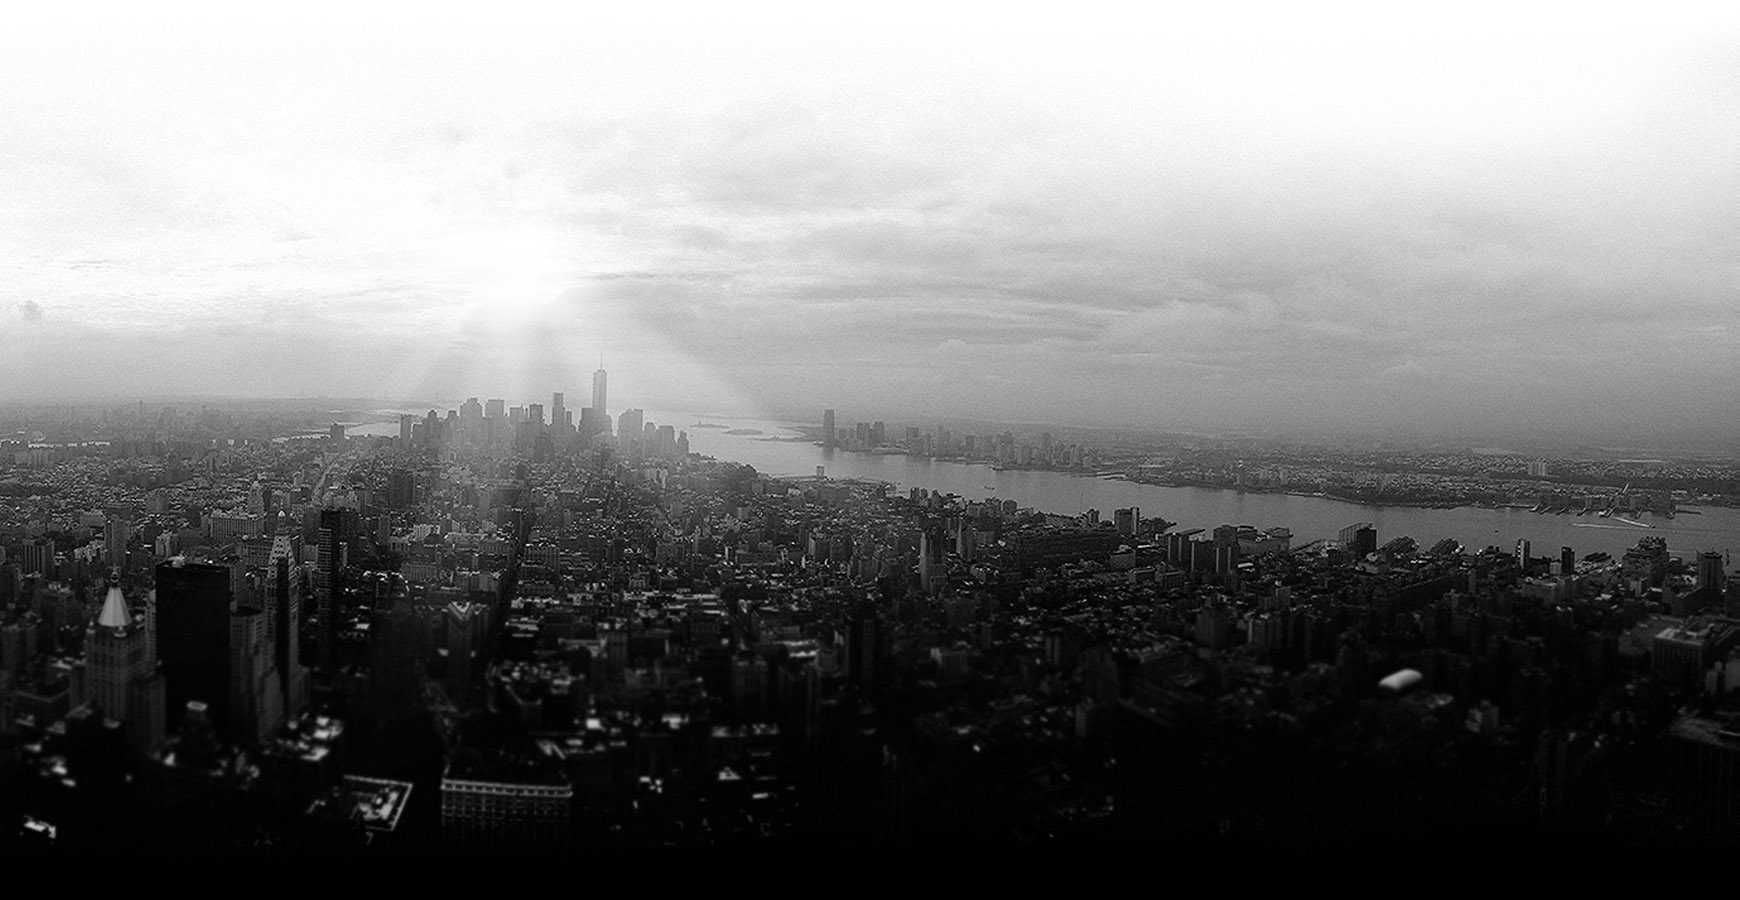
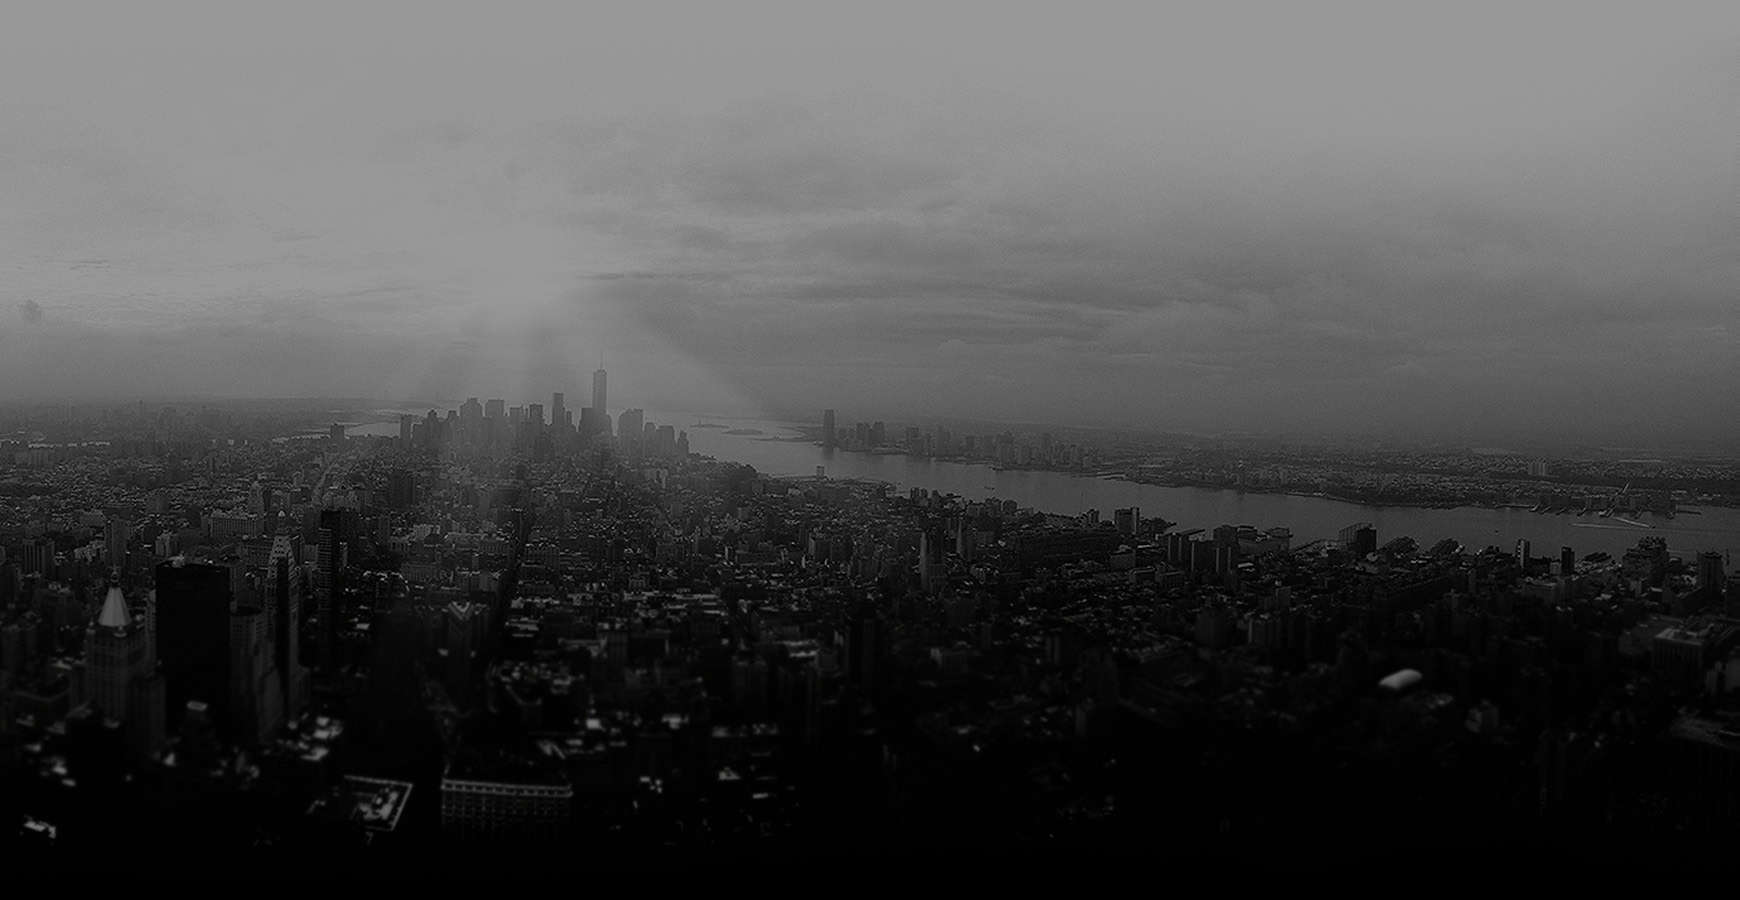
lower file size of background pic

diff --git a/RandomRecord/assets/css/material-kit.css b/RandomRecord/assets/css/material-kit.css
@@ -482,28 +482,6 @@ h2.title {
     color: #999999;
 }
 
-.header-filter {
-    position: relative;
-}
-
-    .header-filter:after {
-        position: absolute;
-        z-index: 1;
-        width: 100%;
-        height: 100%;
-        display: block;
-        left: 0;
-        top: 0;
-        content: "";
-        background-color: lightgrey;
-        background-color: rgba(0, 0, 0, 0.4);
-    }
-
-    .header-filter .container {
-        z-index: 2;
-        position: relative;
-    }
-
 .features {
     padding: 40px 0 0;
 }
